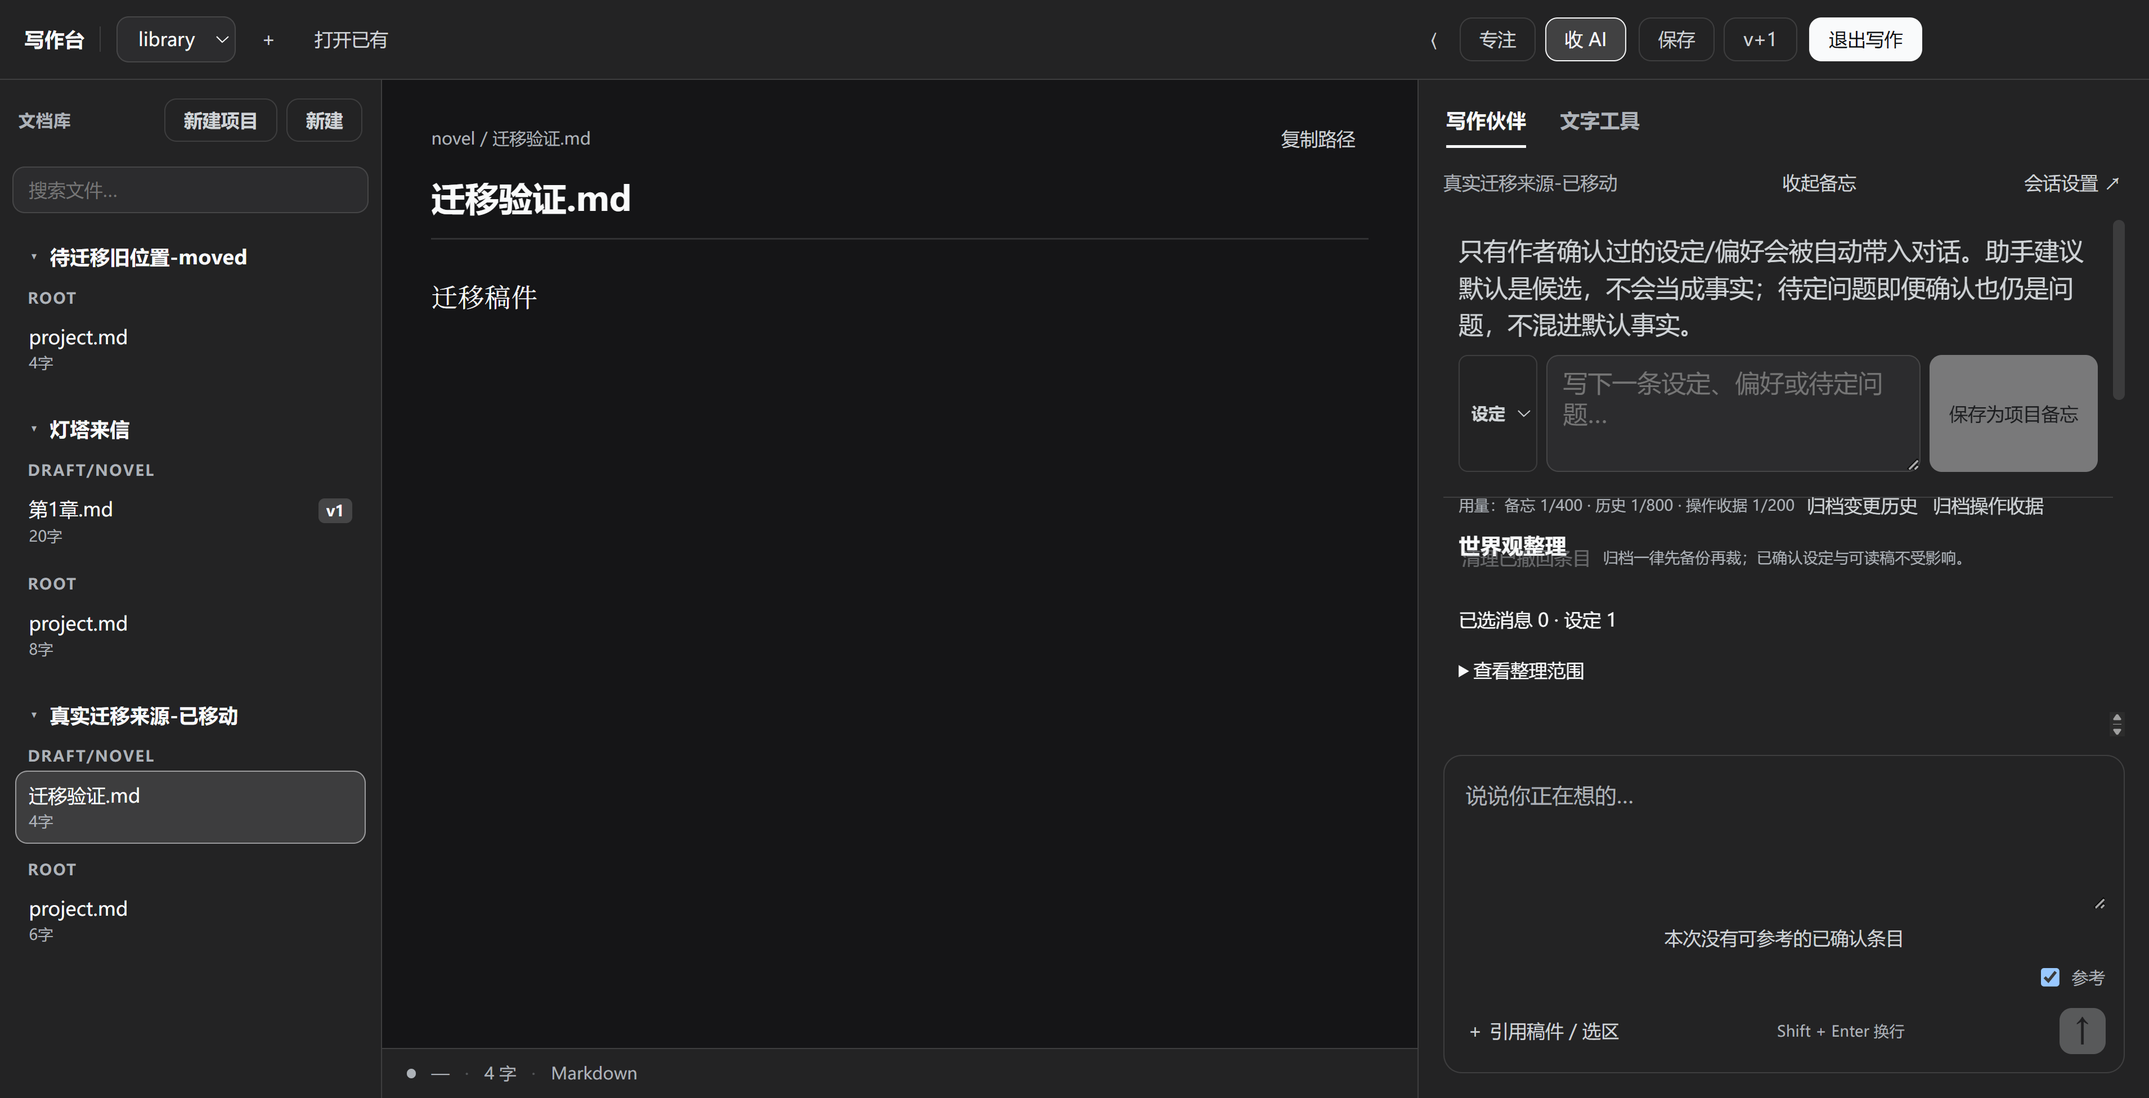
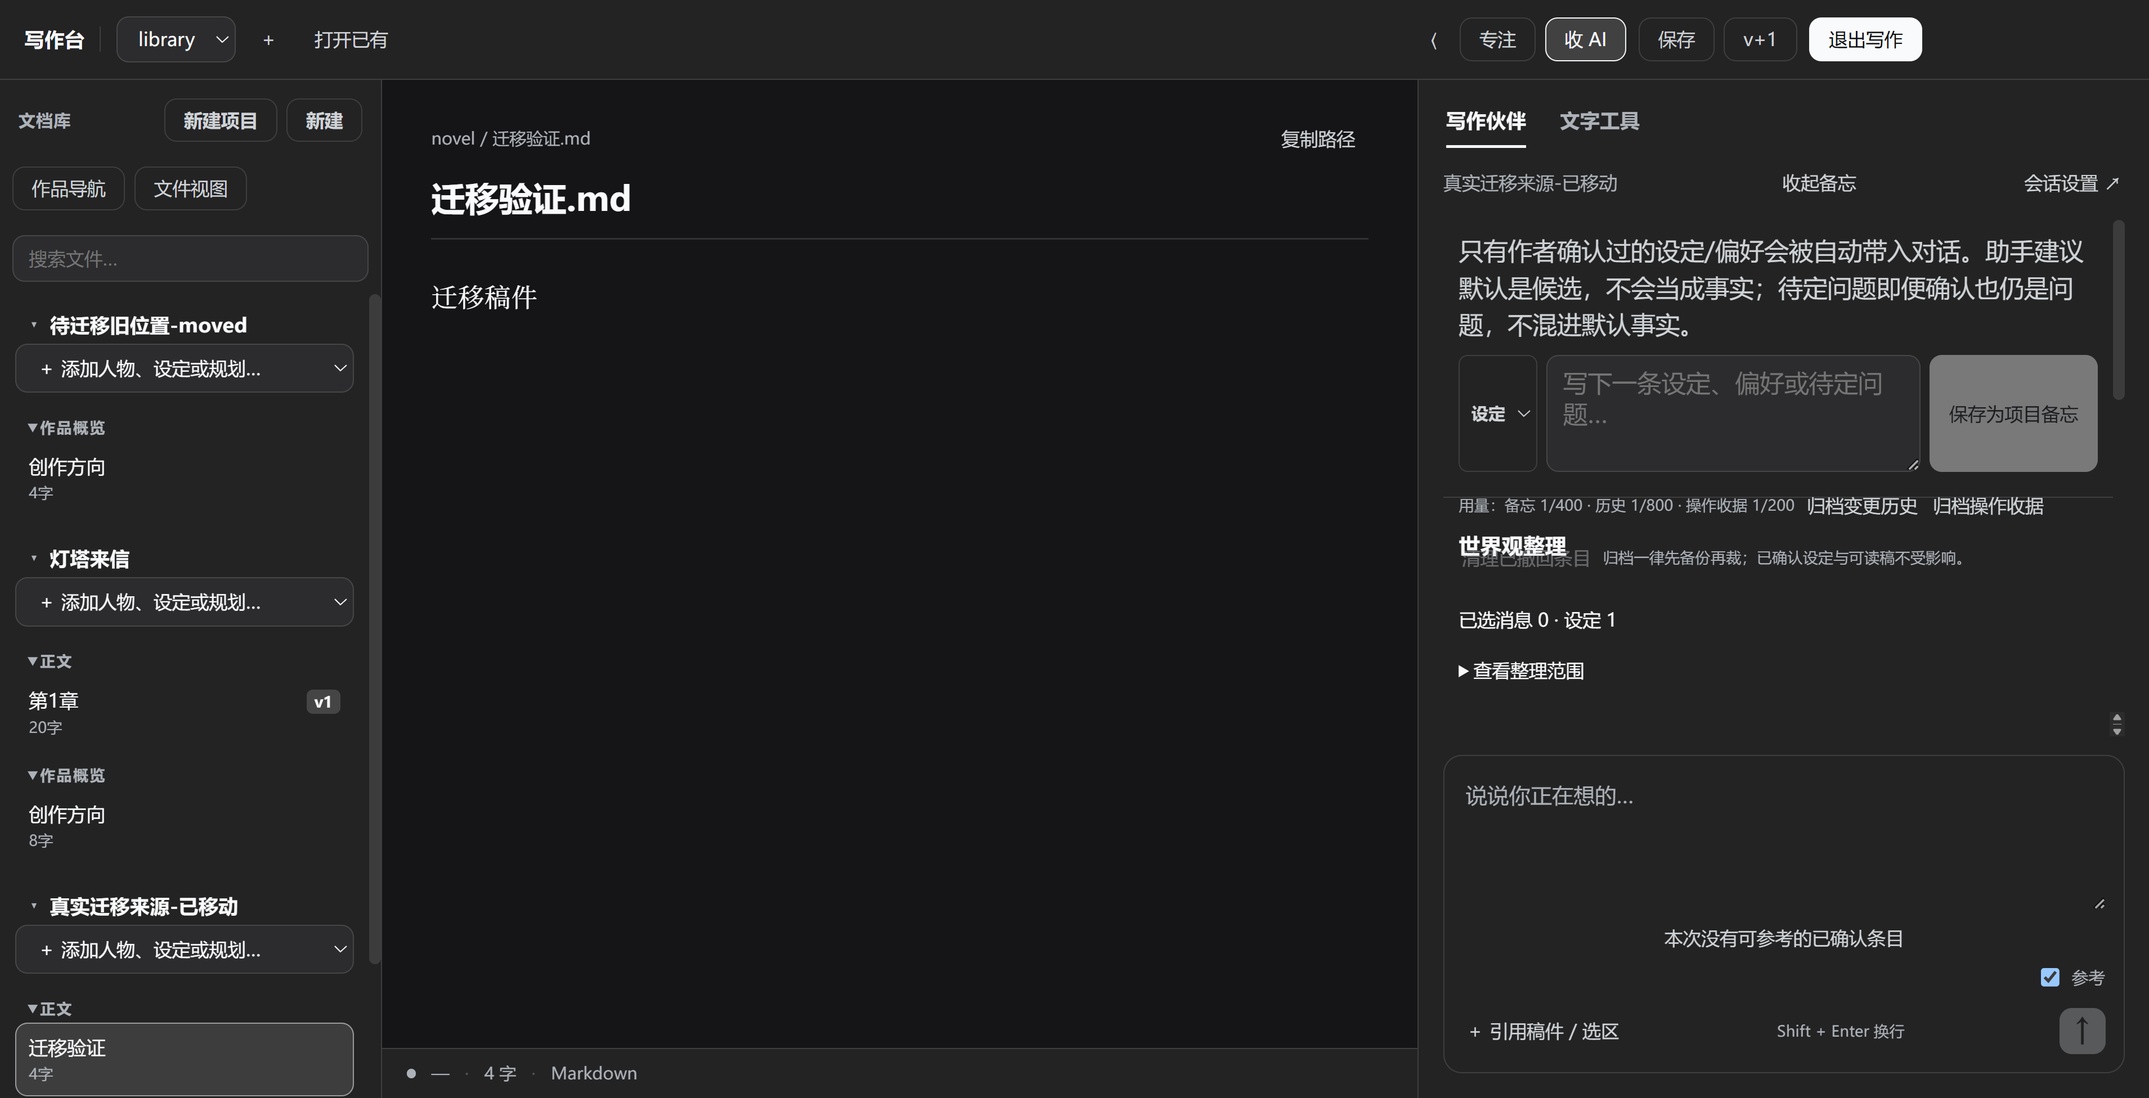
docs: record ruling 4/6 hardening and the project-creation round
CHANGELOG / WORKLOG / logs 2026-09-22 entries from both authors (appended, no existing entry rewritten).

Also refreshes repair-integrated-ui-results.json and .png: verify:writing-world-ui is wired to re-run repair-integrated-ui.cjs, so re-running the gate before committing regenerated them. The only JSON delta is the random temp dir name; the PNG now shows the library grouping navigation added in the previous commit.

diff --git a/logs/2026-09-22.md b/logs/2026-09-22.md
@@ -96,3 +96,66 @@
 2026-09-22：用户授权提交并发布 v0.1.42；已有项目接入与审计整改进入本次发布候选。按同一 Release ID 合并 Windows/macOS 资产，最终结果另记。— Codex
 
 2026-09-22：v0.1.42 已公开为 Latest，Release ID 393502728，代码 ac00c15。Windows 安装器/blockmap/latest.yml 与 macOS DMG/latest-mac.yml 五项资产全部 uploaded，size/SHA256 与两份清单 SHA512 一致；macOS CI 35695937072 成功。Windows 真包 9/9，NSIS 实际载荷冷启动 SMOKE_OK。未替换本机正式安装，预览保持运行。证据 docs/audits/release-0.1.42/。— Codex
+
+2026-09-22 新建项目热修复：复现真实 POST create-project 返回 template-path-unsafe，因模板路径检查发生在父目录建立前。调整为预检模板相对路径、逐级创建并核验目录、wx 排他写入；失败保留创建表单。新增 create-project-http.mjs 覆盖三模板完整文件、重复与已有内容拒绝，并接入 test:writing-world；21 项 host 和 Electron UI 回归通过。本机 resources 插件 index/client 已备份后修补，需应用重启自动同步 profile。版本号仍 0.1.42，本地补丁未发布。— Codex
+
+2026-09-22 作品导航：模板文件使用中文显示名；正文/作品概览优先，人物、世界与设定、故事规划、创作跟踪折叠；文件视图保留原路径命名，自定义目录不改名；搜索匹配中文并展开结果。仅改变展示，不迁移或删改现有文件。新增 verify-writing-navigation.cjs，真实 Electron 验证标签/折叠/搜索/切换及原编辑回归通过。按需创建模板尚待下一步。本轮未发布。— Codex
+
+2026-09-22 轻量新项目：create-project 默认只创建作品概览和首篇正文，小说为 Markdown、剧本为 Fountain；旧完整模板可由 fullTemplate:true 显式请求。每个项目提供按需添加资料选项，固定白名单、逐级实路径校验、排他写入，拒绝已有文件和越界 junction。创建成功打开概览；新增实际 HTTP 与 Electron 新建→添加一份资料的端到端断言通过。既有作品不删减，不改原始资料。本轮未发布。— Codex
+
+## 〔复核裁决 4 / 裁决 6 落地〕ox-alpha（影响面小的两条）
+
+- **背景**：v0.1.42 已由 Codex 复核并提交发布（tag v0.1.42，Release ID 393502728，代码 ac00c15）。
+  用户指示"做影响小的"，故本轮只挑两条**不与在飞改动撞文件**的裁决落地：
+  裁决 4（`main.js`）与裁决 6（`install-update.ps1`）。
+  在飞那一轮（项目模板创建 + 库分组导航：`plugin/writing-mode/{index.js,client.js,lib/store.js,lib/templates.js}`、
+  `src/client/app/WritingModeApp.js`、`src/client/features/library/{FileRow,grouping}.js`、
+  新增 `test/create-project-http.mjs` 与 `scripts/verify-writing-navigation.cjs`）**一个文件都没碰**；
+  也**没有跑 `npm run build:writing`**（它会覆写对方正在改的 `client.js`），没跑 `git stash`。
+
+- **裁决 4：`shell:get-state` 字段最小化。**
+  先查清消费面再动手：本仓库 `notifyCommand` 的唯一消费者是 `renderer/settings.js`，
+  而它走的是**已按发送方授权**的 `dshShell.notifyCommand()` 专用 getter，**不读 get-state**；
+  唯一外部消费者 palis 主题面板的 `ShellState` 类型只声明 `version/kernelVersion/port/workspace/elapsedMs`。
+  所以 get-state 里这个字段无任何消费者，可安全收紧。
+  改法：`shell:get-state` 变为 sender-aware —— 只有设置窗口拿到真值，其余一律空串
+  （**保留键**，避免形状突变导致未知消费者读到 undefined），另给一个不含内容的
+  `hasNotifyCommand` 布尔位，UI 仍可显示"已配置钩子"的角标。
+  **未一并改的（如实记）**：`logTail` / `lastError` / `workspace` 同样是敏感面，
+  但它们确有消费方（审阅侧栏与主题面板），改之前要先摸清调用点，不属"影响小"的范围。
+
+- **裁决 6：`install-update.ps1 -Download` 闭环校验。**
+  原实现只从 `/releases/latest` 挑第一个 `*-setup.exe` 下载到 `%TEMP%` 就静默 `/S` 安装，零校验。
+  改为：① 从**同一个 Release** 取 `latest.yml`，缺清单直接 `Fail`（并指路 `-Installer` 是明确未验证的手工路径）；
+  ② 交叉校验 release tag 与从安装包名解析出的版本；③ 两者下载到**按 tag 命名的独立子目录**
+  （`%TEMP%\dsh-update-<tag>\`），因为 `%TEMP%` 里可能早摆着一份无关的 `latest.yml`，
+  拿陈旧清单校新包比不校更糟；④ 下载后立刻用既有的 `Test-InstallerManifest` 校 version + sha512(base64) + size，
+  不符就删掉下载物并 `Fail`。删除只针对本脚本自己拥有的那两个文件，**不做递归删除**。
+  文件保持 ASCII-only（其自身硬规则），PowerShell 解析器 0 错误。
+
+- **验收**：
+  - `lib/shell-hardening.test.js`：39 → **42 项**，`SHELL_HARDENING_OK`（新增 3 条裁决 4 源码形状断言）。
+  - `scripts/verify-release-artifacts.mjs`：新增 U6 断言（同源清单 / 缺清单拒绝 / 独立下载目录 / tag 交叉校验），
+    `--allow-stale` → `RELEASE_ARTIFACTS_OK` exit 0。
+  - `verify-ipc-authz.mjs` 扩成 **11 项**：预置一个带秘密的 `notifyCommand`
+    （`echo DSH-AUTHZ-PROBE-SECRET-9f3c17`）后启动外壳，从**真实内核页面**读 `status()`，
+    断言 `notifyCommand === ''`、`hasNotifyCommand === true`、秘密串在整个回包里一字不出现、
+    其余字段（version/port/workspace）未被误伤。**dev 态与装机版各跑一次，均 `IPC_AUTHZ_OK 0 项失败`**。
+    用预置文件而非 IPC 写入来配置秘密，因为写入通道本身已被 S1 挡住（那是要验的另一件事）。
+  - 外壳侧 Electron 检查 4 项全 exit 0：`review-ui-check` / `sidebar-skin-check` / `splash-check` / `verify:ui-smoke`。
+  - `main.js` 变了 → asar 变了，故按既定规矩重打真包重验：`BUILD_OK`，
+    asar `d74ca818…` → **`d2c94c55…`**；字节核对 8通过/0失败/1待跑、冷启动 **12/12**、真包验收 **9/9**
+    （被测源码 `e238b39 (dirty)`）。
+  - **未跑** writing-mode 那几套门禁：它们属于在飞那一轮的文件，且 `verify:writing-build` 现在会因
+    对方 src/client 与 client.js 不同步而报 stale——那是他们的中间态，不是本轮造成的，我没去动。
+
+- **改动文件**：`main.js`、`install-update.ps1`、`lib/shell-hardening.test.js`、
+  `scripts/verify-release-artifacts.mjs`、`docs/audits/shell-hardening/2026-09-21/verify-ipc-authz.mjs`。
+  未提交、未发布、未碰 `dist/`。
+
+- **坑 / 备注**：① 又在同一个字上栽了——"拒绝"打成"拒绍"三处（U+7ECD vs U+7EDD），已全仓库扫描修净；
+  ② 在 `shell-hardening.test.js` 里用了 `main` 变量，但该处不在其作用域（旁边的 S1 断言都是用
+  `src('main.js')`），首次跑就 `ReferenceError`，改为局部 `const mainSrc = src('main.js')`。
+  教训同前：插断言前先看邻近代码怎么取值，别假设文件顶部有全局别名。
+
+— 署名：ox-alpha

diff --git a/CHANGELOG.md b/CHANGELOG.md
@@ -1,5 +1,13 @@
 ## [Unreleased]
 
+以下为复核裁决中**影响面小的两条**（裁决 4 / 裁决 6）。本轮刻意避开正在进行的“项目模板创建 + 库分组导航”那一轮的文件，也未跑 `build:writing`（会覆写对方在改的 `client.js`）。— ox-alpha
+
+- **加固（复核裁决 4）：`shell:get-state` 不再向所有窗口无差别返回通知钩子命令。** 该通道无条件暴露给所有窗口，而主窗口承载内核页面（第三方插件 client 代码就跑在那里）；钩子命令可能带敏感参数（令牌、内网地址、个人路径）。动手前先查清消费面：本仓库唯一消费者 `renderer/settings.js` 走的是**已按发送方授权**的专用 getter、不读 get-state；外部主题面板（palis）的 `ShellState` 只声明 `version/kernelVersion/port/workspace/elapsedMs`——所以这个字段在 get-state 里无任何消费者，可安全收紧。现改为 sender-aware：只有设置窗口拿真值，其余给空串（**保留键**，避免形状突变）并额外给一个不含内容的 `hasNotifyCommand` 布尔位，UI 仍能显示“已配置钩子”。**未一并改的**：`logTail` / `lastError` / `workspace` 同样是敏感面，但确有消费方（审阅侧栏与主题面板），不属本轮“影响小”的范围。— ox-alpha
+
+- **修复（复核裁决 6）：`install-update.ps1 -Download` 不再零校验就静默安装。** 原实现从 `/releases/latest` 挑第一个 `*-setup.exe` 下到 `%TEMP%` 就直接 `/S` 安装。现改为：从**同一个 Release** 取 `latest.yml`，缺清单直接拒绝自动安装（并指路 `-Installer` 是明确未验证的手工路径）；交叉校验 release tag 与从包名解析出的版本；两者下到**按 tag 命名的独立子目录**（`%TEMP%` 里可能早摆着一份无关的 `latest.yml`，拿陈旧清单校新包比不校更糟）；下完立即校 version + sha512(base64) + size，不符则删掉下载物并失败。删除只针对本脚本自己拥有的那两个文件，不做递归删除；文件仍严格 ASCII-only。— ox-alpha
+
+- 验收：`shell-hardening-test` 39 → **42 项**；`verify:release-artifacts` 新增 U6 断言（同源清单 / 缺清单拒绝 / 独立下载目录 / tag 交叉校验）→ `RELEASE_ARTIFACTS_OK`；`verify-ipc-authz` 扩成 **11 项**（预置带秘密的钩子命令后从真实内核页面读 `status()`，断言命令为空、`hasNotifyCommand=true`、秘密串一字不出现、其余字段未被误伤），**dev 态与装机版各跑一次均 `IPC_AUTHZ_OK`**；外壳侧 Electron 4 项全绿；`main.js` 变动导致 asar 变化，已重打真包重验（asar `d74ca818…` → **`d2c94c55…`**，字节核对 8通过/0失败/1待跑、冷启动 12/12、真包验收 9/9）。writing-mode 那几套门禁**本轮未跑**（属在飞那一轮的文件，且 `verify:writing-build` 会因对方 src/client 与 client.js 未同步而报 stale）。未提交、未发布。— ox-alpha
+
 - 审查：v0.1.41后续数据可靠性检查复现D01–D04（窗口草稿、候选标记、坏checkpoint、目录移动关联），尚未修复；既有投影/冲突保护回归通过。见 docs/audits/writing-world-settings/2026-09-21/review.md。— Codex
 
 以下为独立复核（Codex，2026-09-22）复现的 CXR01/CXR02 整改，含复核裁决 3 的第三条。报告：`docs/audits/writing-world-settings/2026-09-22/`。
@@ -1019,3 +1027,9 @@
 2026-09-22：用户授权提交并发布 v0.1.42；已有项目接入与审计整改进入本次发布候选。按同一 Release ID 合并 Windows/macOS 资产，最终结果另记。— Codex
 
 2026-09-22：v0.1.42 已公开为 Latest，Release ID 393502728，代码 ac00c15。Windows 安装器/blockmap/latest.yml 与 macOS DMG/latest-mac.yml 五项资产全部 uploaded，size/SHA256 与两份清单 SHA512 一致；macOS CI 35695937072 成功。Windows 真包 9/9，NSIS 实际载荷冷启动 SMOKE_OK。未替换本机正式安装，预览保持运行。证据 docs/audits/release-0.1.42/。— Codex
+
+2026-09-22 新建项目热修复：复现真实 POST create-project 返回 template-path-unsafe，因模板路径检查发生在父目录建立前。调整为预检模板相对路径、逐级创建并核验目录、wx 排他写入；失败保留创建表单。新增 create-project-http.mjs 覆盖三模板完整文件、重复与已有内容拒绝，并接入 test:writing-world；21 项 host 和 Electron UI 回归通过。本机 resources 插件 index/client 已备份后修补，需应用重启自动同步 profile。版本号仍 0.1.42，本地补丁未发布。— Codex
+
+2026-09-22 作品导航：模板文件使用中文显示名；正文/作品概览优先，人物、世界与设定、故事规划、创作跟踪折叠；文件视图保留原路径命名，自定义目录不改名；搜索匹配中文并展开结果。仅改变展示，不迁移或删改现有文件。新增 verify-writing-navigation.cjs，真实 Electron 验证标签/折叠/搜索/切换及原编辑回归通过。按需创建模板尚待下一步。本轮未发布。— Codex
+
+2026-09-22 轻量新项目：create-project 默认只创建作品概览和首篇正文，小说为 Markdown、剧本为 Fountain；旧完整模板可由 fullTemplate:true 显式请求。每个项目提供按需添加资料选项，固定白名单、逐级实路径校验、排他写入，拒绝已有文件和越界 junction。创建成功打开概览；新增实际 HTTP 与 Electron 新建→添加一份资料的端到端断言通过。既有作品不删减，不改原始资料。本轮未发布。— Codex

diff --git a/WORKLOG.md b/WORKLOG.md
@@ -1,5 +1,7 @@
 # 工作日志 · 索引与协作规范
 
+复核裁决中影响面小的两条已落地（裁决 4 / 裁决 6）。**裁决 4**：`shell:get-state` 改为 sender-aware，只有设置窗口能拿到 `notifyCommand` 真值，其余给空串 + 不含内容的 `hasNotifyCommand`（动手前先查清消费面：本仓库唯一消费者走已授权的专用 getter、palis 面板的 `ShellState` 根本不声明这个字段，所以零回归风险）。**裁决 6**：`install-update.ps1 -Download` 现在从**同一个 Release** 取 `latest.yml`，缺清单直接拒绝自动安装，交叉校验 tag 与版本、下载到按 tag 命名的独立子目录、下完立即校 sha512+size。验收：`shell-hardening-test` 39→42、`verify-ipc-authz` 扩至 11 项且 **dev 与装机版各跑一次均 IPC_AUTHZ_OK**（预置带秘密的钩子命令，从真实内核页面证实秘密一字不泄露）、外壳侧 Electron 4 项全绿、`main.js` 变动已重打真包重验（asar `d74ca818…`→`d2c94c55…`，8+12+9 全过）。**本轮刻意避开在飞的“项目模板创建 + 库分组导航”那一轮的文件，也没跑 `build:writing`（会覆写对方在改的 `client.js`）**；writing-mode 那几套门禁本轮未跑。未提交、未发布。— ox-alpha，2026-09-22
+
 CXR01 / CXR02 整改完成（按 Codex 2026-09-22 定向复核）：**两项 P1 均已修，并落实裁决 3 第三条**。CXR01：残留锁清扫能把别人刚取得的活锁移走（check-then-rename 无法原子化，把窗口缩到微秒不是互斥保证；revision/etag 是临界区内部的读后比较，兜不了这个底）——现改为**在线一律不移动他人的锁**：`quarantineStaleLock` 需显式 `{offline:true}`、会移动的 `sweepStale*Locks()` 删除改只读、启动只诊断、维护接口 409 拒绝并给出可操作指引；代价是残留锁会卡着那个桶直到手动删除。CXR02：同名稿件（`draft/第一章.md`）被当成同一作品证据——现降级为 `unrelated-filename-hint`、importable 永远 false，证据只剩备忘/可读稿里记过的旧路径；确认框同时显示来源与目的。裁决3：未知持有者不再白等 8s，新增可重试错误码 `lock-owner-unknown`（800ms）。验收：hardening 77→**92 项全过**、新增 `fix-verification.mjs` **CXR_FIX_OK 25 项**、复核探针现停在 `assert.ok(quarantined)`（=修复生效）、Node 19 步 + Electron/根级 9 项全绿、`test:writing-world` 5/5、真包 8+12+9 全过（asar 仍 `d74ca818…`）。**未做**：D04 fixture 未按裁决 1 拆两组（属复核方文件，未动）、裁决 2/4/5/6、原子所有权锁与作品稳定 ID（长期）。未提交、未发布。— ox-alpha，2026-09-22
 
 打包/更新供应链 U1–U5 hunt 与逐一修复完成：**5 项全部实锤复现并全部修复**。最实际的两项：`install-update.ps1` 按 mtime 挑安装包（实测会挑中 0.1.37 而当前是 0.1.41）且**先强杀正在运行的桌面与内核再静默安装**、降级不报；以及发布前零一致性闸门（本机 `dist/latest.yml` 落后 4 个版本，而 `release.ps1` 未认证分支会把上传命令打印给人手工执行）。另：GitHub 更新源 5 处硬编码零校验（现让 `build.ps1` 从 `package.json` 派生）、`killStaleUpdaterInstallers` 裸拼路径进 PowerShell（紧邻 `Stop-Process -Force`）、`build.ps1`/`prepare-runtime.ps1` 里的中文注释违反其自身 ASCII-only 规则（v0.1.31 引入的哑弹）。新增闸门 `npm run verify:release-artifacts`（已接进 build/release）；探针重跑 0/4。**过程中自己引入的 W23 回归被门禁抓到并已修复**（V4 的锁快速失败把“锁刚释放”与“对方正在写入的空锁”误当陈旧锁；新增 `ownerIsProvablyDead()`，清扫/隔离只认 `dead`），`test:writing-hardening` 66 → **77 项全过**，`test:writing-world` 连跑 3/3。未提交、未发布；`dist/` 里任何文件都未删。报告：`docs/audits/release-chain-hardening/2026-09-21/`。— ox-alpha，2026-09-21
@@ -148,3 +150,5 @@ v2 交回复核：[`review.md`](docs/audits/writing-architecture/2026-09-14/v2-r
 2026-09-22：用户授权提交并发布 v0.1.42；已有项目接入与审计整改进入本次发布候选。按同一 Release ID 合并 Windows/macOS 资产，最终结果另记。— Codex
 
 2026-09-22：v0.1.42 已公开为 Latest，Release ID 393502728，代码 ac00c15。Windows 安装器/blockmap/latest.yml 与 macOS DMG/latest-mac.yml 五项资产全部 uploaded，size/SHA256 与两份清单 SHA512 一致；macOS CI 35695937072 成功。Windows 真包 9/9，NSIS 实际载荷冷启动 SMOKE_OK。未替换本机正式安装，预览保持运行。证据 docs/audits/release-0.1.42/。— Codex
+
+2026-09-22 轻量新项目：create-project 默认只创建作品概览和首篇正文，小说为 Markdown、剧本为 Fountain；旧完整模板可由 fullTemplate:true 显式请求。每个项目提供按需添加资料选项，固定白名单、逐级实路径校验、排他写入，拒绝已有文件和越界 junction。创建成功打开概览；新增实际 HTTP 与 Electron 新建→添加一份资料的端到端断言通过。既有作品不删减，不改原始资料。本轮未发布。— Codex
